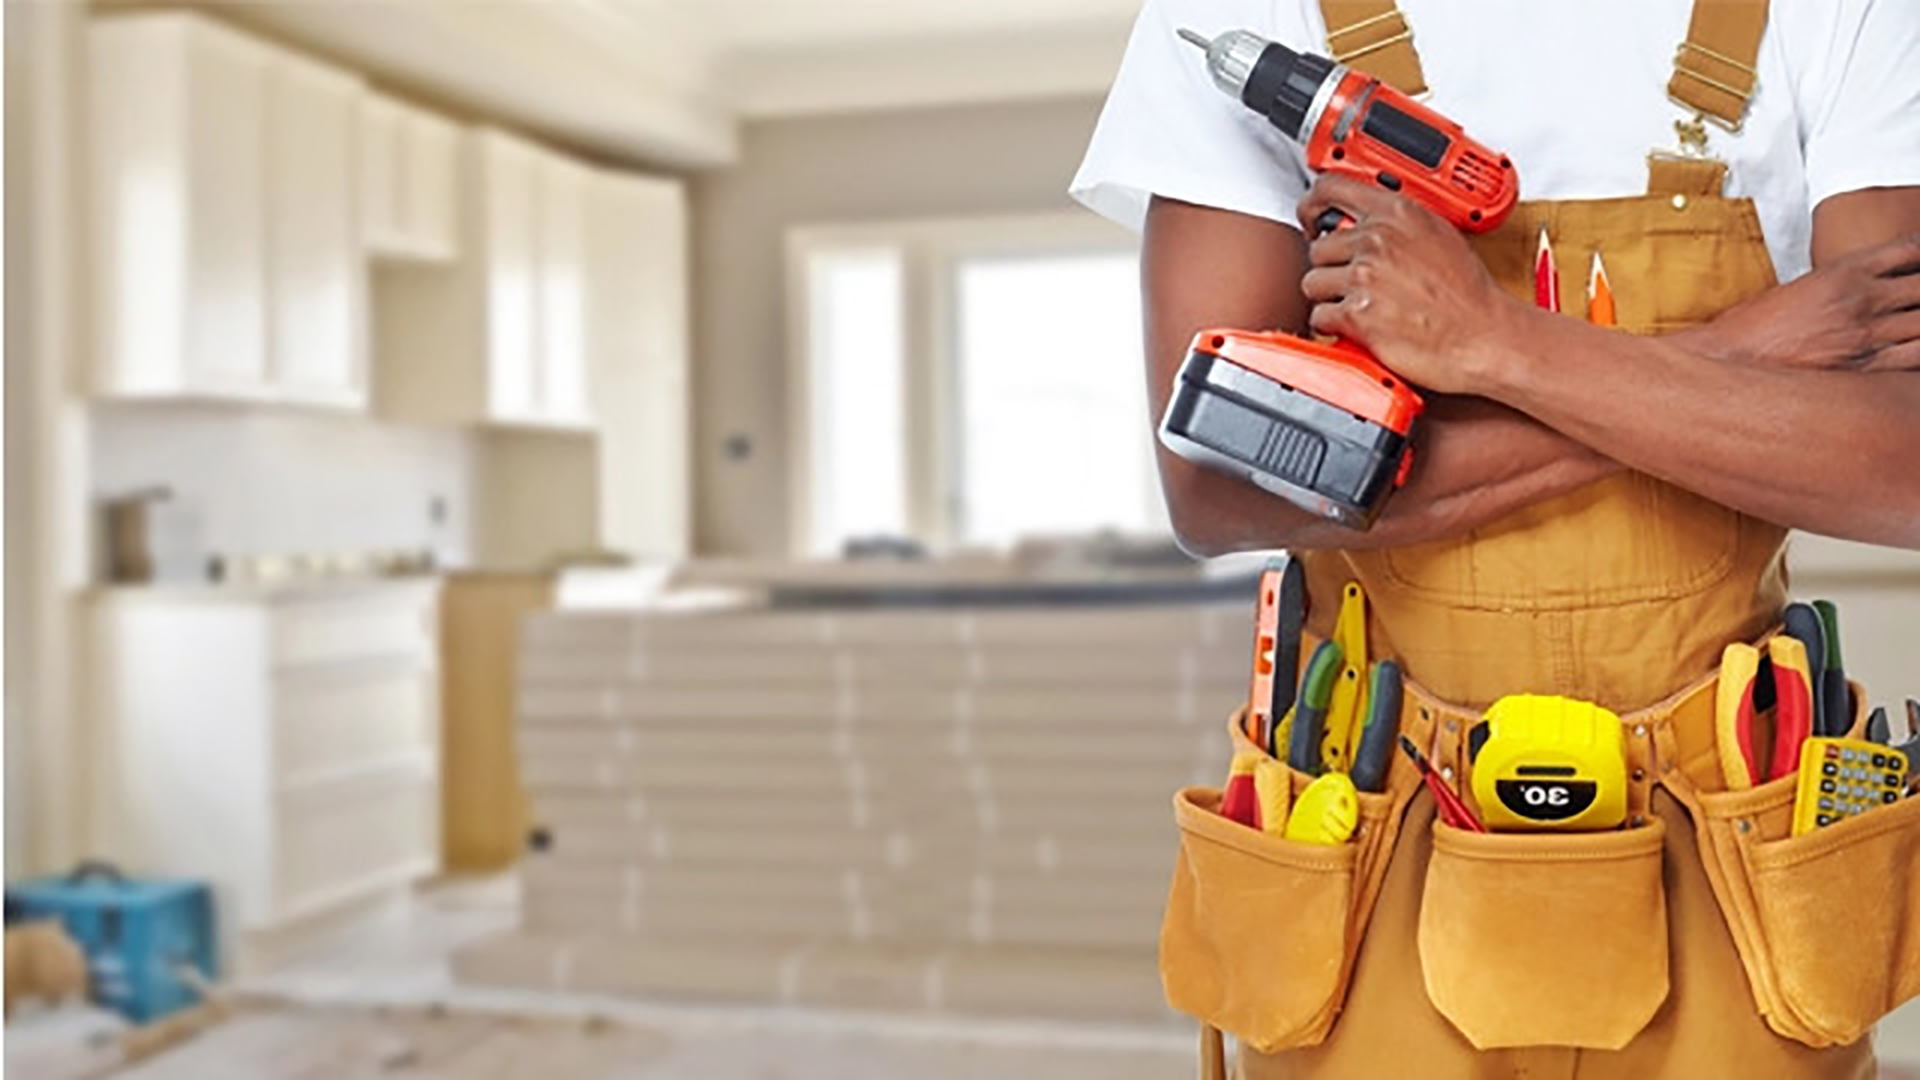
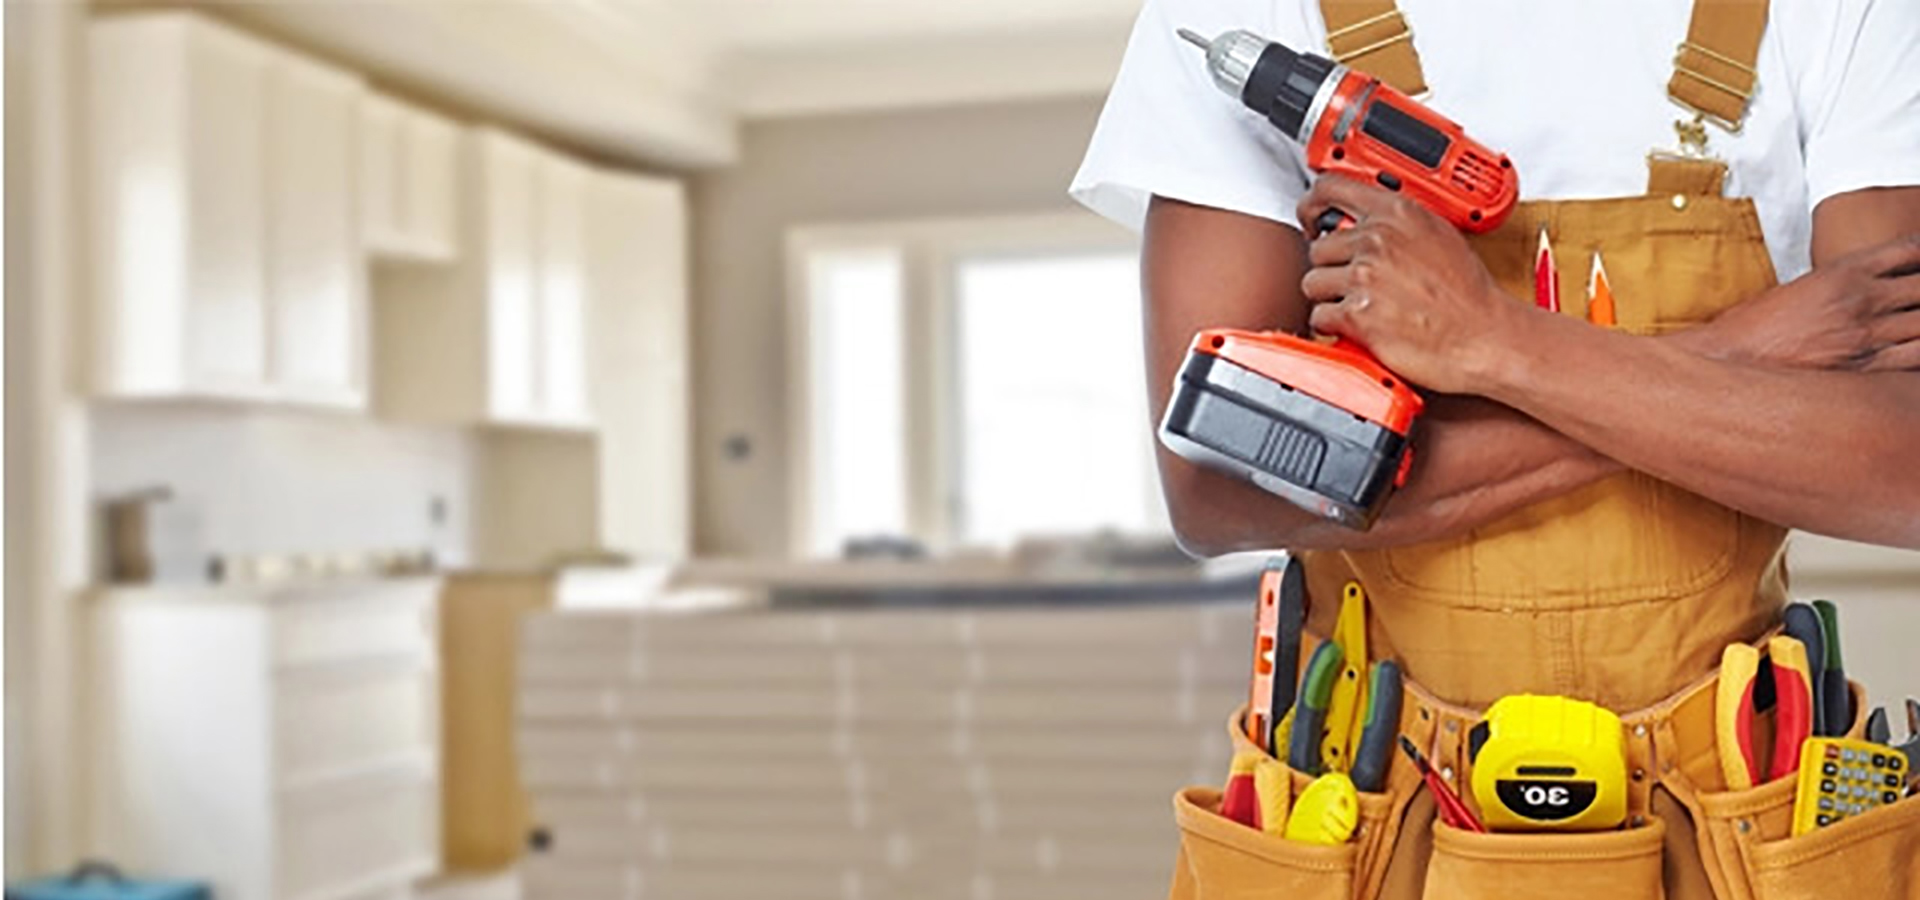
12

diff --git a/assets/js/view/home/home.html b/assets/js/view/home/home.html
@@ -14,7 +14,17 @@
           </div>
         </div>
         <div class="carousel-item">
-          <img class="w-100" src="./assets/img/slideshow/Limpeza.jpg" alt="Image">
+          <img class="w-100" src="./assets/img/slideshow/Construcao-civil.jpg" alt="Image">
+          <div class="carousel-caption d-flex flex-column align-items-center justify-content-center">
+            <div class="p-3" style="max-width: 900px;">
+              <i class="fa fa-building fa-4x text-primary mb-4 d-none d-sm-block"></i>
+              <h1 class="display-2 text-uppercase text-white mb-md-4">Construção civil</h1>
+              <a href="" class="btn btn-primary py-md-3 px-md-5 mt-2">Conversa no WhatsApp ?</a>
+            </div>
+          </div>
+        </div>
+        <div class="carousel-item">
+          <img class="w-100" src="./assets/img/slideshow/Limpeza2.jpg" alt="Image">
           <div class="carousel-caption d-flex flex-column align-items-center justify-content-center">
             <div class="p-3" style="max-width: 900px;">
               <i class="fa fa-tools fa-4x text-primary mb-4 d-none d-sm-block"></i>
@@ -45,44 +55,16 @@
         <h4 class="text-uppercase mb-3 text-body">Tudo fica simples com os nossos Serviços. </h4>
 
         <p>
-          Acly Augusto é uma empresa de direito Angolano, de comercio e
-          prestação de serviços em diversas arias, com capital totalmente Angolano a exercer actividade em varios sector
-          do mercado Angolano.
+          A Acly Augusto é uma empresa de direito angolano, fundada em 2015, com capital 100% nacional, dedicada ao comércio e à prestação de serviços em diversas áreas. Desde a sua criação, a empresa tem-se afirmado como uma referência no mercado angolano, atuando em vários setores estratégicos com profissionalismo, inovação e compromisso com a qualidade.
         </p>
 
-        <p>Acly Augusto representa um elevado grau de conhecimento e experiência nos processos de prestacoes de
-          servicos, de modo a oferecer um serviço de valor</p>
-        <div class="row gx-5 py-2">
-          <div class="col-sm-12 mb-2">
-            <p class="fw-bold mb-2"><i class="fa fa-check text-primary me-3"></i>Missão</p>
-            <p>
-              Prestar serviços aos nossos clientes (empresa e organizações) com eficiência, responsabilidade e
-              integridade garantindo sigilo profissional e satisfazendo as suas mais altas expectativas cumprindo com os
-              prazos assumidos e contribuir para o sucesso dos seus negócios tornando-os mais produtivos e lucrativos,
-              através do fornecimento de informações e demostrações financeiras relevantes para a tomada de decisão
-              racional por parte dos seus gestores.
-            </p>
-
-            <p class="fw-bold mb-2"><i class="fa fa-check text-primary me-3"></i>Visão</p>
-            <p>
-              Ser a melhor opção de prestador de serviços a nível nacional focando comércio exterior na chegada ou saída
-              de mercadorias nos Portos, Aeroportos e Fronteiras do país, sempre combinando agilidade, flexibilidade,
-              qualidade e a garantia da satisfação de nossos clientes.
-            </p>
-
-            <p class="fw-bold mb-2"><i class="fa fa-check text-primary me-3"></i>Valores</p>
-            <p>
-              Integridade, responsabilidade, qualidade nos serviços, inovação, ética, transparência, em busca sempre da
-              satisfação dos nossos clientes e racionalização dos custos a cada serviço prestado.
-            </p>
-          </div>
-
-        </div>
+        <p>Com uma visão orientada para o crescimento sustentável e a satisfação dos clientes, a Acly Augusto investe constantemente no aperfeiçoamento dos seus serviços, adotando as melhores práticas do setor e promovendo soluções eficientes e adaptadas às necessidades do mercado.</p>
+       <p>Através de um profundo conhecimento dos processos e das dinâmicas do mercado, a Acly Augusto destaca-se pelo seu compromisso com a inovação, confiabilidade e eficiência, garantindo um impacto positivo no desenvolvimento socioeconômico de Angola</p>
 
       </div>
       <div class="col-lg-5 pb-5" style="min-height: 400px;">
         <div class="position-relative bg-dark-radial h-100 ms-5">
-          <img class="position-absolute w-100 h-100 mt-5 ms-n5" src="./assets/img/about.jpg" style="object-fit: cover;">
+          <img class="position-absolute w-100 h-100 mt-5 ms-n5" src="./assets/img/about2.jpg" style="object-fit: cover;">
         </div>
       </div>
     </div>
@@ -136,7 +118,7 @@
             <i class="fa fa-3x  fa-bolt text-primary"></i>
           </div>
           <div class="px-4 pb-4">
-            <h4 class="text-uppercase mb-3">Architecture Design</h4>
+            <h4 class="text-uppercase mb-3">Serralharia</h4>
             <p>
               Nossa equipe é formada por profissionais que tem como missão superar as expectativas e satisfação de
               nossos clientes, buscando entender as necessidades para transformá-las em soluções robustas.
